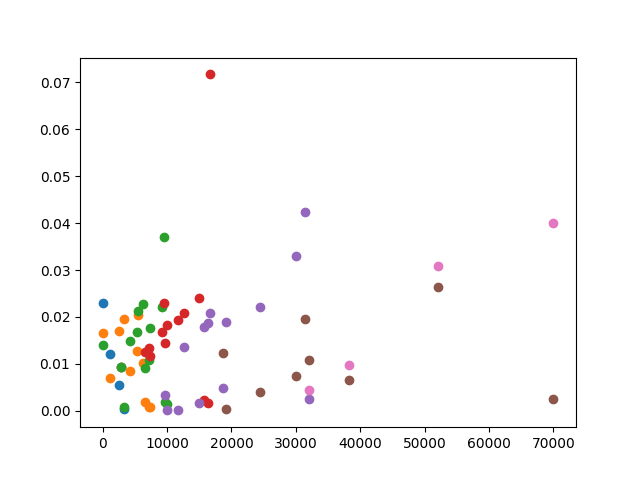
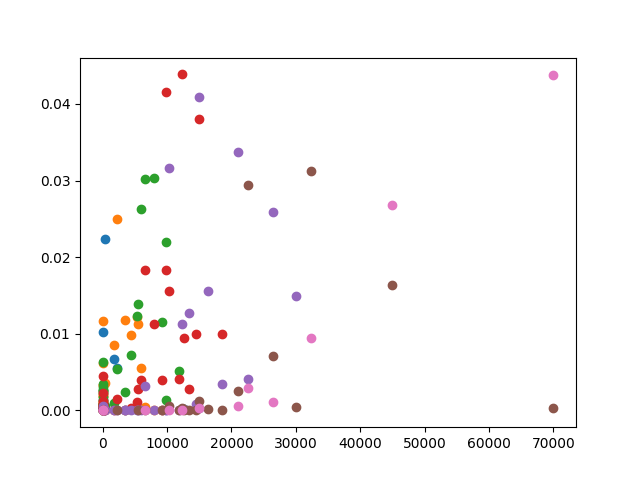
Model working reasonably well, no operating costs or EVs so far

diff --git a/model/genericModel.py b/model/genericModel.py
@@ -105,6 +105,16 @@ def initializeYear(population, cars):
 
     return population, cars
 
+
+
+
+
+debugCarName = "luxury-2022-False"
+
+
+
+
+
 # how many owners of lower-quality cars would buy this car if the price were at its initial value?  Later the price, and the number
 #    of buyers, will be adjusted
 def determineBuyers(year, population, cars, sortedCarNames, carName):
@@ -116,9 +126,10 @@ def determineBuyers(year, population, cars, sortedCarNames, carName):
     buyerMemory = {}                 # for efficiency only - remember some intermediate results and return them
     numBought = 0
     for (incomeLevel, peopleGroup) in population[year].items():
-        # if the people group has no utility for a car this expensive (or this cheap), skip them
         utilityFunction = [thing['utilityFunction'] for thing in globalParameters['peopleGroups'] if thing['income'] == incomeLevel][0]
-        scaledExp = [thing['scaledExp'] for thing in globalParameters['peopleGroups'] if thing['income'] == incomeLevel][0]
+        utilityScale = globalParameters['utilityScale'] * cars[carName]['history'][year]['quality']
+        scaledExp = scaledExpCurried(utilityScale)    # scaledExp(x) = exp(x/scale)
+        # if the people group has no utility for a car this expensive (or this cheap), skip them
         if (utilityFunction(qualityThisCar) == 0): continue
 
         for otherCarName in lowerQualityCarNames:
@@ -140,10 +151,13 @@ def determineBuyers(year, population, cars, sortedCarNames, carName):
             # now numerator/denominator is probability owner of thirdCarName chose to buy carName
             #print("***", peopleGroup)
             numBought += peopleGroup['cars'][otherCarName]['fraction'] * numerator / denominator
-
-            tmp = peopleGroup['cars'][otherCarName]['fraction']
-            print("**A**", priceThisCar, tmp, tmp*numerator/denominator, numerator, denominator)
-
+            # if (carName == debugCarName):
+            #     print("   ***", "Owners of", otherCarName, ": ", peopleGroup['cars'][otherCarName]['fraction'], "tentatively buy", 
+            #        peopleGroup['cars'][otherCarName]['fraction'] * numerator / denominator)
+            #     print("      ", numerator, denominator)
+            # if (otherCarName == debugCarName):
+            #     print("***","Owners of", debugCarName, ": ", peopleGroup['cars'][otherCarName]['fraction'], "tentatively sell", 
+            #        peopleGroup['cars'][otherCarName]['fraction'] * numerator / denominator)
             if (incomeLevel not in buyerMemory): buyerMemory[incomeLevel] = {'cars': []}
             buyerMemory[incomeLevel]['cars'].append( {'model': otherCarName, 'numerator': numerator, 'denominator': denominator} )
         # end of loop over cars owned by this peopleGroup
@@ -161,6 +175,8 @@ def determinePriceAndBuyers(year, population, cars, sortedCarNames, carName):
     # for all owners of a lower-quality car, decide if they choose to buy this car (at its current price)
     # we maintain some intermediate results in buyerMemory, for efficiency only
     (numBuyers, buyerMemory) = determineBuyers(year, population, cars, sortedCarNames, carName)
+    # if (carName == debugCarName):
+    #     print("\n\n*** buyerMemory", buyerMemory,"\n\n")
 
     if (cars[carName]['year'] == year):               # this is a new car -- all buyers will buy at pre-set price
         numSellers = numBuyers                        # this causes deltaP (calculated momentarily) to be zero
@@ -173,30 +189,53 @@ def determinePriceAndBuyers(year, population, cars, sortedCarNames, carName):
     #    exp(-delta_P) * buyers = sellers (see notes)
     #    exp(-delta_P) = sellers / buyers
     #print("***", numSellers, numBuyers)
+    priceThisCar = cars[carName]['history'][year]['price']
     if ((numBuyers > 0) and (numSellers > 0)):
-       deltaP = -utilityScale*math.log(numSellers / numBuyers)    # could be a rise or a fall in price
+        deltaP = -utilityScale*math.log(numSellers / numBuyers)    # could be a rise or a fall in price
+        if (deltaP < -priceThisCar):                               # don't let price drop below zero
+            deltaP = -priceThisCar
+    elif (numBuyers == 0):
+        deltaP = -priceThisCar                                     # if no buyers, price drops to zero
     else:
-        deltaP = 0
+        deltaP = 0                                                 # if no sellers, price is irrelevant
+    # if (carName == debugCarName):
+    #     print("***", "Saved numSellers for", carName, "is", numSellers, "tentative buyers is", numBuyers, "deltaP is", deltaP)
     # to this point we haven't changed population or cars; now update cars with the new price
     cars[carName]['history'][year]['price'] += deltaP
     # now update population for buyers of this car, and move their lower-quality car to the must-sell list
+    totalBuy = 0
     for incomeLevel in buyerMemory.keys():
         #print("***", "Population[", incomeLevel, "]['cars']:\n", population[year][incomeLevel]['cars'].keys())
         #print("\n***", "buyerMemory[", incomeLevel, "]['cars']:\n", [c['model'] for c in buyerMemory[incomeLevel]['cars']])
         for previouslyOwnedCarRecord in buyerMemory[incomeLevel]['cars']:
             # format of buyerMemory: {incomeLevel: {'cars': [{'model': 'luxury-2020-False', 'numerator': 123, 'denominator': 246}, ...]}}
             previousModelName = previouslyOwnedCarRecord['model']
-            numerator = previouslyOwnedCarRecord['numerator'] * scaledExp(deltaP)       # adjust buy probability by new price
+            numerator = previouslyOwnedCarRecord['numerator'] * scaledExp(-deltaP)       # adjust buy probability by new price
             denominator = previouslyOwnedCarRecord['denominator']
             tradeProbability = numerator / denominator
-            #print("\n\n***", previouslyOwnedCarRecord, population[year][incomeLevel]['cars'].keys())
+            if (tradeProbability > 1):
+                # for some low-valued cars, there are more sellers than even possible buyers
+                tradeProbability = 1            # this will leave a few cars being sold but not bought, i.e. retired
             numToTrade = population[year][incomeLevel]['cars'][previousModelName]['fraction'] * tradeProbability
-            print("**B**", deltaP, population[year][incomeLevel]['cars'][previousModelName]['fraction'], numToTrade, numerator, denominator)
+            # if (previousModelName == debugCarName):
+            #     print("***", "Owners of", previousModelName, ": ", population[year][incomeLevel]['cars'][previousModelName]['fraction'],
+            #        "finally sell", numToTrade)
+            #     print("   ", numerator, denominator)
             population[year][incomeLevel]['cars'][previousModelName]['fraction'] -= numToTrade  # leaving number not traded
+            # if (previousModelName == debugCarName):
+            #     print("***", "Leaving", population[year][incomeLevel]['cars'][previousModelName]['fraction'])
             if (carName not in population[year][incomeLevel]['cars']):
                 population[year][incomeLevel]['cars'][carName] = {'fraction': 0}
             population[year][incomeLevel]['cars'][carName]['fraction'] += numToTrade
+            # if (carName == debugCarName):
+            #     print("***", "Previous owners of", previousModelName, "now own", numToTrade, "of", carName)
+            #     print("   ", numerator, denominator)
             cars[previousModelName]['numSellers'] += numToTrade
+            totalBuy += numToTrade
+    if (abs(totalBuy - numSellers) > 0.005):
+        print("!!! Discrepancy for", carName, "sellers:", numSellers, "adjusted buyers:", totalBuy, "deltaP:", deltaP)
+    # if (carName == debugCarName):
+    #     print("***", "final buyers of", carName, ":", totalBuy)
     return (population, cars)
 
 

diff --git a/model/test_model.py b/model/test_model.py
@@ -1,77 +1,6 @@
-import specificModel, genericModel
+from model.defaultGlobalParameters import globalParameters
 
-# population = {2021:
-#                 {10000:
-#                     {'fraction': 0.05, 'cars':
-#                         {
-#                             'midrange-2013-False': {'fraction': 0.025},
-#                             'economy-2015-False':  {'fraction': 0.025}
-#                         }
-#                     }, # end of income cohort 10000
-#                  20000:
-#                     {'fraction': 0.05, 'cars':
-#                         [
-#                             'midrange-2015-False': {'fraction': 0.03},
-#                             'economy-2016-False':  {'fraction': 0.02}
-#                         ]
-#                     }, # end of income cohort 20000
-#                 } # end of 2022
-#             } # end of population
-
-
-# cars is a dictionary of all cars.  The dict is keyed by the car identity, which is a string consisting of model, year, EV (True or False)
-#    The values of the dict are a dict of car characterstics, including history which is a dict keyed by year and containing the price
-#    for that year, as well as the quality, i.e. perceived value (depreciated predictably from the purchase price) and the depreciated battery
-#    value (which is always 0 for non-EV cars)
-# cars = {
-#     'midrange-2013-False': {
-#         'model': 'midrange', 'year': 2013, 'EV': False,
-#         'history': {
-#             2013: {'price': 30000, 'quality': 30000, 'batteryValue': 0},
-#             2014: {'price': 24000, 'quality': 21000, 'batteryValue': 0},
-#             2015: {'price': 18000, 'quality': 18000, 'batteryValue': 0},
-#             2021: {'price': 3500,  'quality': 6000,  'batteryValue': 0}
-#          },
-#     },
-#     'midrange-2015-False': {
-#         'model': 'midrange', 'year': 2015, 'EV': False,
-#         'history': {
-#             2015: {'price': 30000, 'quality': 30000, 'batteryValue': 0},
-#             2016: {'price': 24500, 'quality': 21000, 'batteryValue': 0},
-#             2017: {'price': 19500, 'quality': 18000, 'batteryValue': 0},
-#             2021: {'price': 6000,  'quality': 10000, 'batteryValue': 0}
-#         }
-#     }
-# }
-
-globalParameters = {
-    'carTypes': {
-        'luxury': {
-            'initialQuality': 70000, 'salvageValue': 2000,
-            'depreciationCurve': {0: 1.0, 1: 0.7, 2: 0.6, 3: 0.5, 4: 0.42, 5: 0.36, 6: 0.3, 7: 0.25, 8: 0.18, 9: 0.1, 10: 0}
-        },
-        'midrange': {
-            'initialQuality': 30000, 'salvageValue': 2000,
-            'depreciationCurve': {0: 1.0, 1: 0.7, 2: 0.6, 3: 0.5, 4: 0.42, 5: 0.36, 6: 0.3, 7: 0.25, 8: 0.18, 9: 0.1, 10: 0}
-        },
-        'economy': {
-            'initialQuality': 15000, 'salvageValue': 2000,
-            'depreciationCurve': {0: 1.0, 1: 0.7, 2: 0.6, 3: 0.5, 4: 0.42, 5: 0.36, 6: 0.3, 7: 0.25, 8: 0.18, 9: 0.1, 10: 0}
-        }
-    },
-    'peopleGroups': [
-        {'income': 10000,  'fraction': 0.05,  'utilityFunction': specificModel.peakedUtility(2000),  'scaledExp': genericModel.scaledExpCurried(1000)},
-        {'income': 20000,  'fraction': 0.125, 'utilityFunction': specificModel.peakedUtility(4000),  'scaledExp': genericModel.scaledExpCurried(2000)},
-        {'income': 30000,  'fraction': 0.20,  'utilityFunction': specificModel.peakedUtility(6000),  'scaledExp': genericModel.scaledExpCurried(3000)},
-        {'income': 40000,  'fraction': 0.25,  'utilityFunction': specificModel.peakedUtility(10000), 'scaledExp': genericModel.scaledExpCurried(5000)},
-        {'income': 60000,  'fraction': 0.20,  'utilityFunction': specificModel.peakedUtility(20000), 'scaledExp': genericModel.scaledExpCurried(10000)},
-        {'income': 80000,  'fraction': 0.09,  'utilityFunction': specificModel.peakedUtility(40000), 'scaledExp': genericModel.scaledExpCurried(20000)},
-        {'income': 100000, 'fraction': 0.085, 'utilityFunction': specificModel.peakedUtility(70000), 'scaledExp': genericModel.scaledExpCurried(35000)}
-    ],
-    'transactionCost': 500,
-    'utilityScale': 0.15
-}
-
+from model import specificModel, genericModel
 genericModel.globalParameters = globalParameters
 specificModel.globalParameters = globalParameters
 
@@ -83,14 +12,12 @@ cars = specificModel.initializeCars(thisYear)
 population = specificModel.initializePopulation(cars, thisYear)
 #print("\n\nPopulation:\n", population)
 
-#for incomeLevel in population[thisYear].keys():
-#   theSum = sum(c['fraction'] for c in population[thisYear][incomeLevel]['cars'])
-#    print("***", population[thisYear][incomeLevel]['fraction'], theSum)
+for incomeLevel in population[thisYear].keys():
+    theSum = sum(v['fraction'] for k,v in population[thisYear][incomeLevel]['cars'].items())
+    print("***", population[thisYear][incomeLevel]['fraction'], theSum)
 
-population, cars = genericModel.determinePrices(*genericModel.initializeYear(population, cars))
+#population, cars = genericModel.determinePrices(*genericModel.initializeYear(population, cars))
 
-print("\n\nPopulation:\n", population, "\n\nCars:\n", cars, "\n\n\n")
-
-
+#print("\n\nPopulation:\n", population, "\n\nCars:\n", cars, "\n\n\n")
 
 print("\n\n\n")

diff --git a/tmp.py b/tmp.py
@@ -1,6 +1,11 @@
-import time
-#from analysis.plotUtilityFunctions import plotUtilityFunctions
+import sys
+print(sys.path)
 
-#plotUtilityFunctions()
+import model.test_model
 
-import analysis.plotPriceByIncomeGroup
+# import time
+# #from analysis.plotUtilityFunctions import plotUtilityFunctions
+
+# #plotUtilityFunctions()
+
+# import analysis.plotPriceByIncomeGroup

diff --git a/analysis/plotPriceByIncomeGroup.py b/analysis/plotPriceByIncomeGroup.py
@@ -1,5 +1,6 @@
 from matplotlib import pyplot as plt
-from model.test_model import globalParameters, population, cars
+#from model.test_model import globalParameters, population, cars
+from testQQQ.runTenYears import population, cars
 
 year = sorted(population.keys())[-1]
 

diff --git a/model/specificModel.py b/model/specificModel.py
@@ -1,6 +1,6 @@
 import functools
 
-from genericModel import carsSortedByQuality
+from model.genericModel import carsSortedByQuality
 
 globalParameters = {}    # this will be replaced by whoever calls us
 
